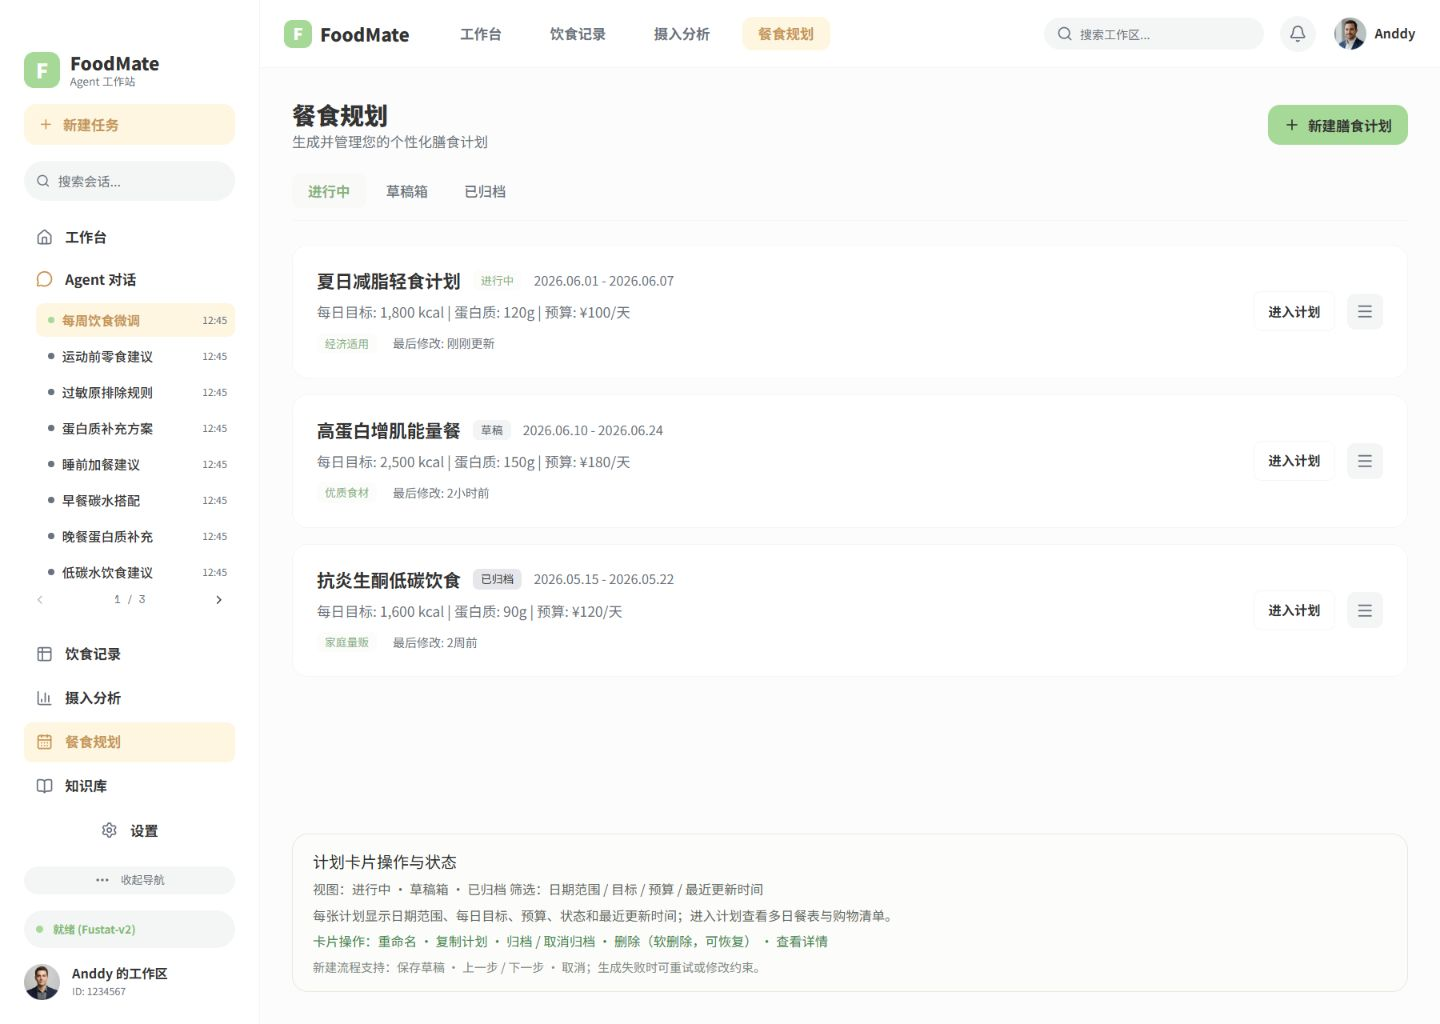
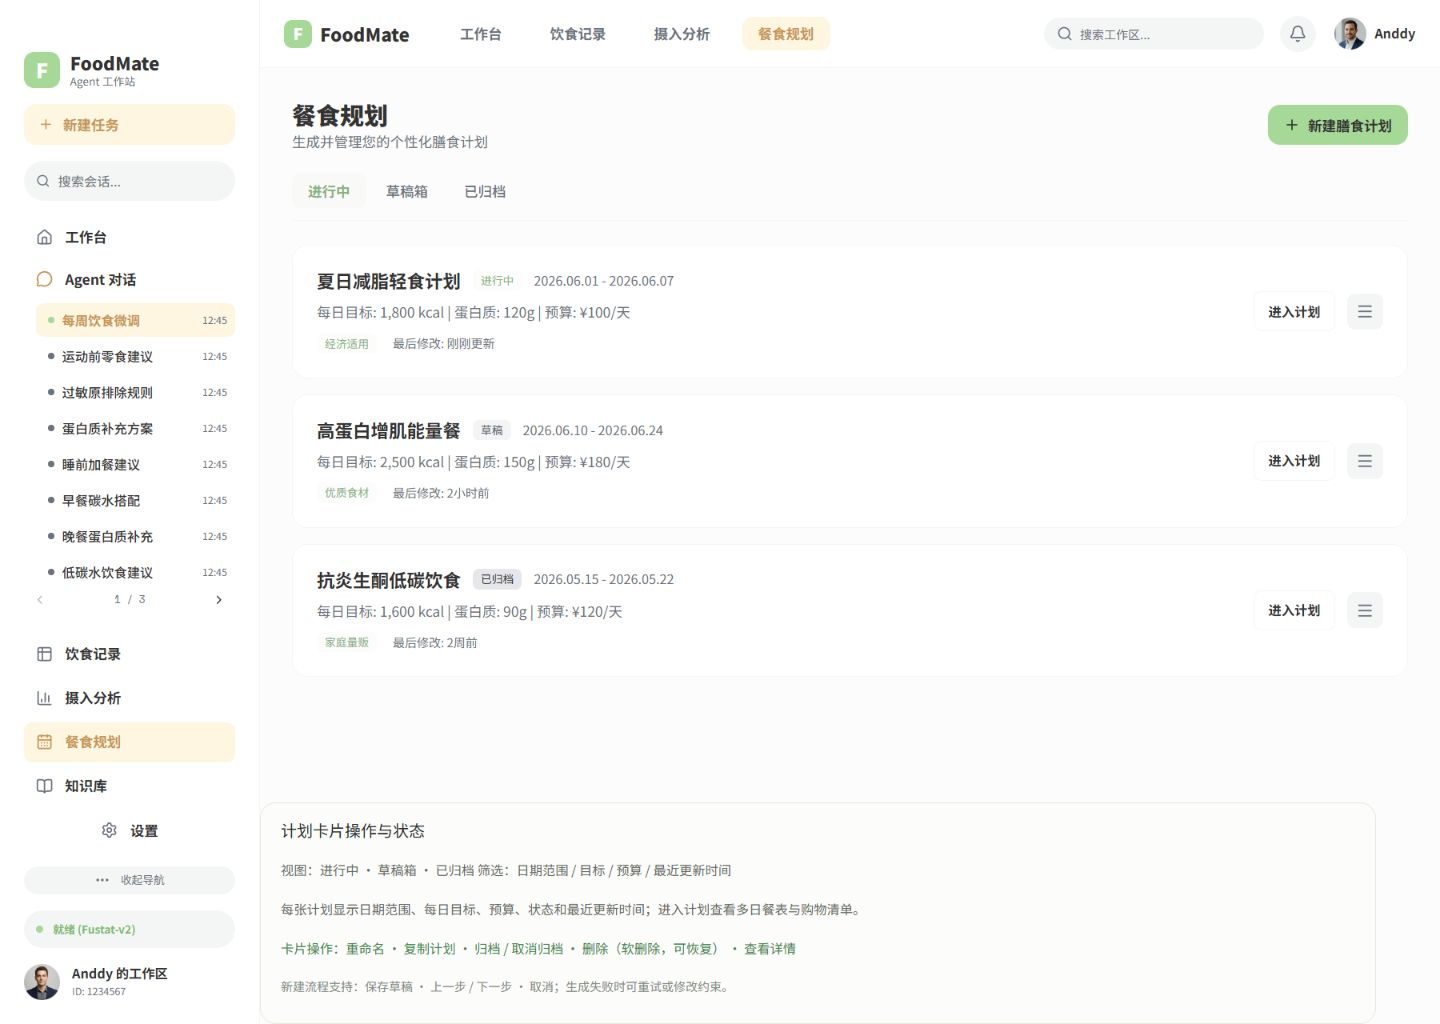
fix(餐食规划): 对齐底部说明面板几何

Changed region(s): [[0.1875, 0.7812, 0.625, 0.9688]]

diff --git a/foodmate-ui/src/pages/PlanningPage/MealPlanningFlow.module.css b/foodmate-ui/src/pages/PlanningPage/MealPlanningFlow.module.css
@@ -271,14 +271,20 @@
 
 .lifecycleNote {
   display: grid;
+  align-self: flex-start;
+  box-sizing: border-box;
   gap: 8px;
   margin-top: auto;
+  margin-bottom: -32px;
+  margin-left: -32px;
   padding: 16px 20px;
   border: 1px solid #ebe8db;
   border-radius: 16px;
   background: #fcfcfa;
   color: #5e6963;
   font-family: Inter, 'Noto Sans SC', sans-serif;
+  width: 100%;
+  height: 222px;
 }
 
 .lifecycleNote h2,
@@ -1478,6 +1484,10 @@
 
   .lifecycleNote {
     margin-top: 20px;
+    margin-bottom: 0;
+    margin-left: 0;
+    width: 100%;
+    height: auto;
   }
 
   .flowStepper {

diff --git a/docxs/功能实现说明/Figma前端像素级验收报告.md b/docxs/功能实现说明/Figma前端像素级验收报告.md
@@ -123,7 +123,7 @@ Figma Design 页共有 105 张顶层画板。本轮已为 105 张画板建立独
 | 冲突解决 | `692:3375` | `/planning?state=conflict` | `meal-plan-conflict-figma.png` | `meal-plan-conflict-browser-stable-rgba.png` | 37.28% | 25.12 | `DIFF_REVIEW` |
 | 购物清单 | `692:3569` | `/planning?state=shopping-list` | `meal-plan-shopping-list-figma.png` | `meal-plan-shopping-list-browser-stable-rgba.png` | 24.35% | 17.23 | `DIFF_REVIEW` |
 | 生成中 | `692:3746` | `/planning?state=generating` | `meal-plan-generating-figma.png` | `meal-plan-generating-browser-stable-rgba.png` | 13.69% | 16.84 | `DIFF_REVIEW` |
-| 计划列表 | `692:2662` | `/planning?state=list` | `meal-plan-list-figma.png` | `meal-plan-list-browser-current-rgba.png` | 27.9107% | 18.96 | `DIFF_REVIEW` |
+| 计划列表 | `692:2662` | `/planning?state=list` | `meal-plan-list-figma.png` | `meal-plan-list-browser-current-rgba.png` | 23.0783% | 18.71 | `DIFF_REVIEW` |
 
 浏览器 smoke 已实际确认：向导步骤推进和取消生成、冲突方案应用、购物清单初始采购数量及导出反馈均可操作；七个入口均无页面级横向溢出。流程 fixture 只复现前端设计状态，不代表真实餐食生成、冲突解决、购物清单持久化或异步任务后端闭环完成。
 
@@ -524,6 +524,13 @@ Figma Design 页共有 105 张顶层画板。本轮已为 105 张画板建立独
 - [x] 浏览器实测顶部头像资源加载成功，容器 `overflow=hidden`，前端左上角红、黄、绿窗口装饰点数量仍为 `0`。
 - [x] 最新 PNG diff：`differentPixels=411026`、差异比例 `27.8745%`、`MAE=3.8013`、`RMSE=18.9252`、最大通道差异 `235`；机器结果锚点为 `figma-105-diff-results.json#meal-plan-list`。
 - [ ] 该画板继续保持 `DIFF_REVIEW`；本项只完成头像边界修正，不代表整页像素级通过、全量 shadcn 迁移或 iconfont 解阻塞。
+
+## 56. 2026-08-23 餐食规划列表底部说明面板几何复核
+
+- [x] 依据 Figma 节点 `692:2662` 回读值，将桌面端“计划卡片操作与状态”面板对齐到 `x=260、y=802、width=1116、height=222、bottom=1024`；面板原有颜色、圆角、内边距和文字内容保持不变。
+- [x] 计划卡片区域仍保持 `x=292、width=1116`，仅修正底部说明面板相对右侧内容区的左边界、固定高度和底部贴合关系；移动端恢复原有自适应高度和边距。
+- [x] 浏览器验收使用 `1440×1024`、DPR `1.0000000149011612`、字体 `loaded`；最新 PNG diff：`differentPixels=340303`、差异比例 `23.0783%`、`MAE=3.6995`、`RMSE=18.7132`、最大通道差异 `235`。
+- [ ] 该画板仍为 `DIFF_REVIEW`，剩余卡片细节、字体和图标光栅化差异需要继续收口；本项不代表整页 `PASS` 或全量页面迁移完成。
 
 ## 60. 2026-08-23 Intake Analysis 当前版本验收证据更新
 

diff --git a/docxs/实现/前端实现指南.md b/docxs/实现/前端实现指南.md
@@ -1057,3 +1057,10 @@ Agent 空态以 Figma `687:219` 为唯一视觉来源，目标画板为 `1440×1
 - [x] 浏览器验收使用 `1440×1024`、DPR `1.0000000149011612`、字体 `loaded`；头像资源加载成功，前端左上角红、黄、绿窗口装饰点数量为 `0`，没有改动 Figma 或业务状态圆点。
 - [x] 最新同尺寸 PNG diff 为 `27.8745% / MAE 3.8013 / RMSE 18.9252`，结果登记在 `foodmate-ui/.qa/figma-pixel-acceptance/meal-plan-list-current-diff.json` 和 `figma-105-diff-results.json#meal-plan-list`。
 - [ ] 本项仍保持整页 `DIFF_REVIEW`；只完成头像裁切这一独立视觉修正，全量 shadcn 页面迁移和 iconfont 实体资源登记仍未完成。
+
+## 57. 2026-08-23 餐食规划列表底部说明面板几何对齐
+
+- [x] 依据实时 Figma 节点 `692:2662` 将列表底部说明面板设为 `222px` 高，并通过桌面端负边距使其几何位置对齐为 `x=260、y=802、width=1116、bottom=1024`；没有改变 Figma 设计稿。
+- [x] 计划卡片仍从 `x=292` 开始，移动端在 `680px` 以下恢复自适应高度、零负边距，避免响应式内容溢出。
+- [x] 浏览器证据使用 `1440×1024`、DPR `1.0000000149011612`、字体 `loaded`；PNG diff 更新为 `23.0783% / MAE 3.6995 / RMSE 18.7132`。
+- [ ] 本项只完成底部说明面板几何对齐，整页仍为 `DIFF_REVIEW`；后续继续按 Figma 收口卡片内容、字体和图标差异，iconfont 仍为 `BLOCKED`。
